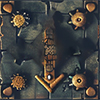
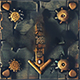
(+) beautify css and add/fix images

diff --git a/src/global.css b/src/global.css
@@ -4,6 +4,10 @@ body, #root {
     align-items: center;
     height: 100vh;
     margin: 0;
+    background-image: url("/bg.jpg");
+    background-size: cover;
+    background-repeat: no-repeat;
+    background-attachment: fixed;
 }
   
 .board {
@@ -13,14 +17,39 @@ body, #root {
     gap: 1px;
     border-color: #1d2534;
     border: 10px solid #1d2534;
+    background-color: #1d2534;
     border-radius: 20px;
+    box-shadow: 0 0 500px 5px #ff580052;
 }
   
 .tile {
     width: 80px;
     height: 80px;
     background-size: cover;
+    perspective: 1000px; 
     margin: 0;
     padding: 0;
     border: 1px solid #1d2534;
+}
+
+.tileInner {
+    width: 100%;
+    height: 100%;
+    transition: transform 0.2s;
+    transform-style: preserve-3d;
+}
+  
+.tileFlipped {
+    transform: rotateY(180deg);
+}
+  
+.front, .back {
+    position: absolute;
+    width: 100%;
+    height: 100%;
+    backface-visibility: hidden;
+}
+  
+.back {
+    transform: rotateY(180deg);
 }
